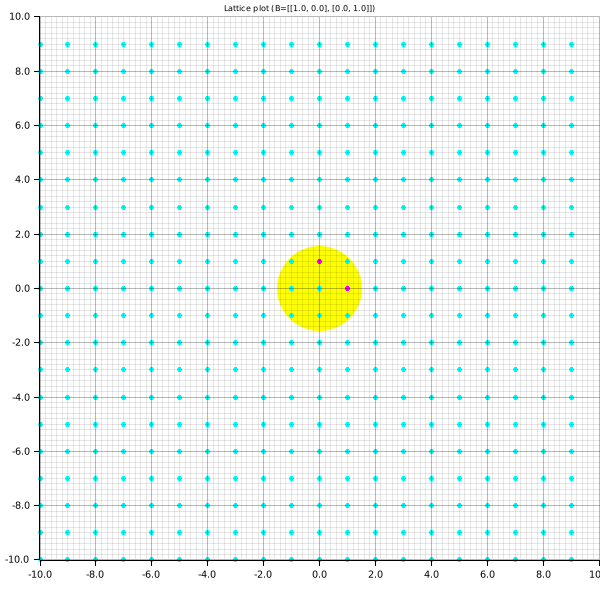
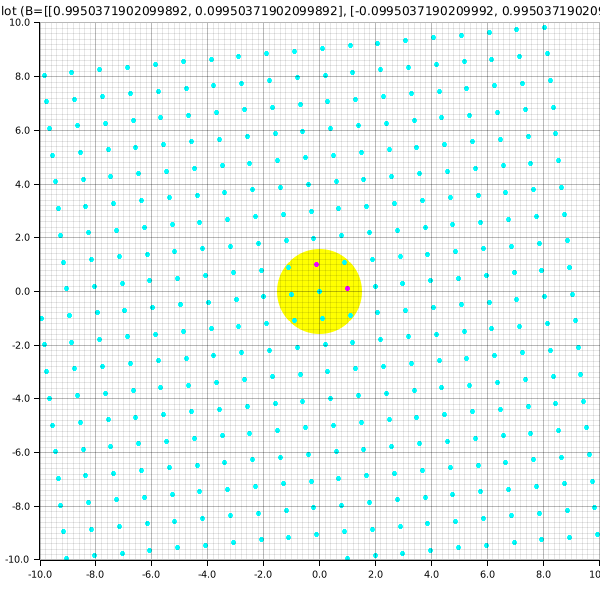
Fix GS orthogonalization

Changed region(s): [[0.0, 0.0, 1.0, 0.9]]

diff --git a/src/matrix.rs b/src/matrix.rs
@@ -1,8 +1,9 @@
 pub mod matrix {
-    use crate::utils::dot_prod_vecs;
+    use crate::utils::{dot_prod_vecs, normalize_vec};
     use std::fmt::Debug;
     use std::ops::{Add, AddAssign, Div, Mul, Neg, Sub};
     use std::vec;
+    
 
     pub struct Matrix<T> {
         pub elements: Vec<Vec<T>>,
@@ -219,21 +220,26 @@ pub mod matrix {
                 return true;
             }
         }
-        pub fn gram_schmidt_orthonormalization(&mut self) {
-            let mut ortho_basis = self.clone();
+        pub fn gram_schmidt_orthogonalization(&mut self, normalize: bool) {
+            let mut basis = Vec::new();
             for i in 0..self.rows_num {
+                let mut new_vec = self.elements[i].clone();
                 for j in 0..i {
-                    let dot_product = dot_prod_vecs(&self.elements[i], &ortho_basis.elements[j]);
-                    for k in 0..self.cols_num {
-                        ortho_basis.elements[i][k] -= dot_product * ortho_basis.elements[j][k];
+                    let projection_scalar = dot_prod_vecs(&self.elements[i], &basis[j]) / dot_prod_vecs(&basis[j], &basis[j]);
+                    for k in 0..new_vec.len() {
+                        new_vec[k] -= projection_scalar * basis[j][k];
                     }
                 }
-                let norm = dot_prod_vecs(&self.elements[i], &self.elements[i]).sqrt();
-                for k in 0..self.cols_num {
-                    ortho_basis.elements[i][k] /= norm;
+                if normalize {
+                    normalize_vec(&mut new_vec);
                 }
+                basis.push(new_vec);
             }
-            self.elements = ortho_basis.elements;
+            self.elements = basis;
+
+        }
+        pub fn is_unimodular(&self) -> bool {
+            return self.determinant() == 1.0;
         }
     }
 }

diff --git a/src/main.rs b/src/main.rs
@@ -1,15 +1,17 @@
 use crate::lattice::lattice::Lattice;
 use crate::matrix::matrix::Matrix;
+use crate::utils::dot_prod_vecs;
 
 mod lattice;
 mod matrix;
 mod utils;
 
 fn main() {
-    let mut b = Matrix::new(vec![vec![1.0, 0.0], vec![0.0, 1.0]]);
-    // b.gram_schmidt_orthonormalization();
-    // println!("{:?}", b.elements);
+    let mut b = Matrix::new(vec![vec![6.0, 0.6], vec![2.5, 2.5]]);
+    // let mut c = Matrix::new(vec![vec![1.0, 0.6], vec![2.5, 2.5]]);
+    b.gram_schmidt_orthogonalization(true);
+    println!("{:?}", dot_prod_vecs(&b.elements[0], &b.elements[1]));
     let l = Lattice::new(b);
-    println!("{:?}", l.get_volume());
+    // println!("{:?}", l.get_volume());
     l.plot_lattice(20);
 }

diff --git a/src/lattice.rs b/src/lattice.rs
@@ -108,4 +108,9 @@ pub mod lattice {
         }
         Matrix::new(span)
     }
+
+    pub fn are_two_bases_gen_same_lattice(basis1: &Matrix<f64>, basis2: &Matrix<f64>) -> bool {
+        let mat = basis1.clone().inverse().unwrap() * basis2.clone();
+        mat.is_unimodular()
+    }
 }

diff --git a/src/utils.rs b/src/utils.rs
@@ -13,3 +13,10 @@ pub fn add_vecs(vec1: &Vec<f64>, vec2: &Vec<f64>) -> Vec<f64> {
     }
     return_vec
 }
+
+pub fn normalize_vec(vec: &mut Vec<f64>) {
+    let norm = vec.iter().map(|&x| x * x).sum::<f64>().sqrt();
+    for elem in vec.iter_mut() {
+        *elem /= norm;
+    }
+}
